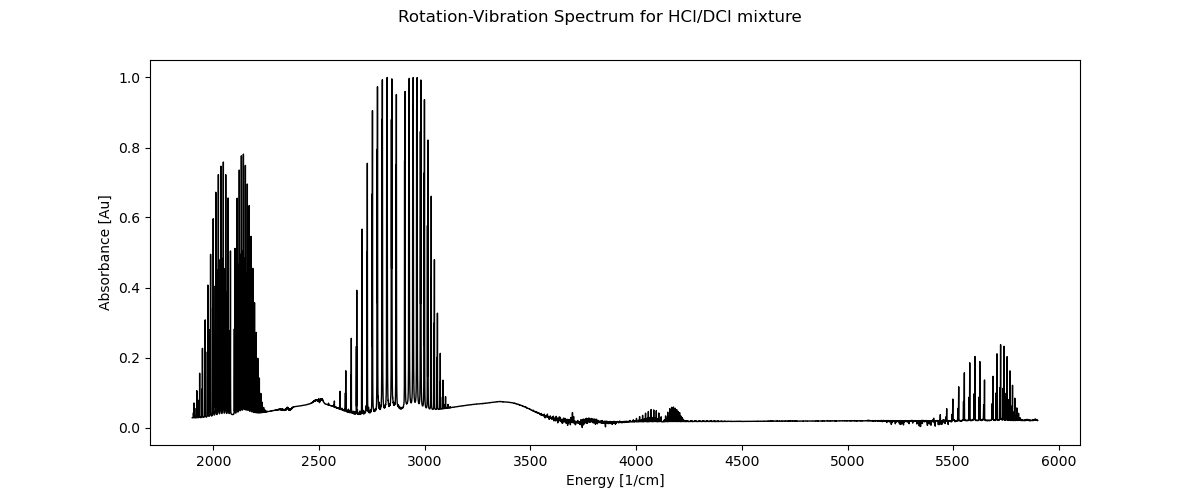
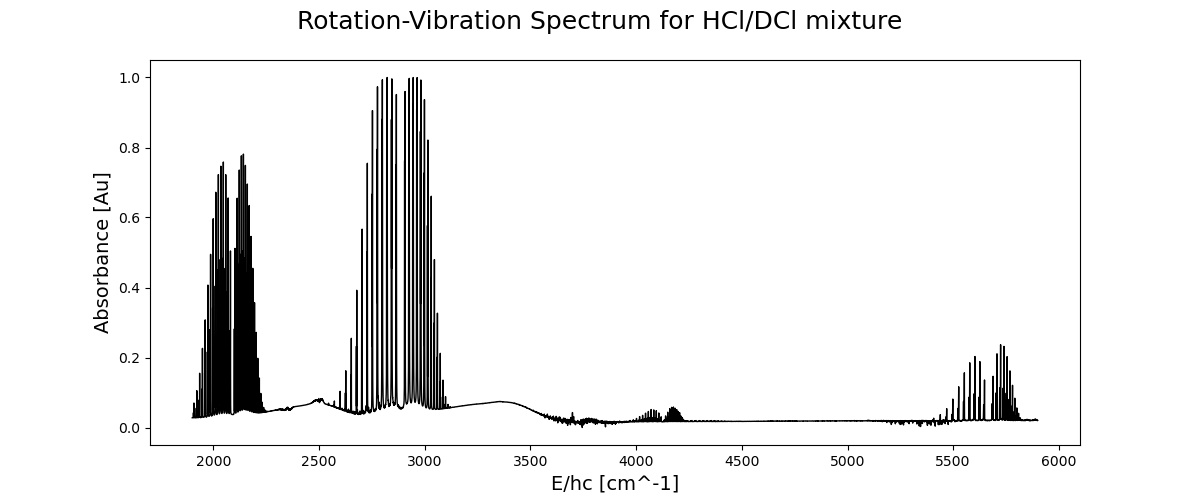
lab stuff

Changed region(s): [[0.2467, 0.0, 0.7708, 0.06], [0.0617, 0.33, 0.0925, 0.66], [0.4625, 0.93, 0.5858, 0.99]]

diff --git a/main.py b/main.py
@@ -28,16 +28,16 @@ fig, axs = plt.subplots(nrows=1, ncols=1, figsize=(12,5))
 # # Plotting the dataset for specT vs wavenumber
 # axs[0].plot(freq, specT, linestyle='solid',
 #          marker='None', color='black', linewidth=1)
-# axs[0].set_xlabel('Energy [1/cm]')
+# axs[0].set_xlabel('E/hc [cm^-1]', fontsize=14)
 # axs[0].set_ylabel('Transmission [%]')
 
 # Plotting the dataset for absorbance vs wavenumber
-axs.plot(freq, specA, linestyle='solid',
-         marker='None', color='black', linewidth=1)
-axs.set_xlabel('Energy [1/cm]')
-axs.set_ylabel('Absorbance [Au]')
-fig.suptitle('Rotation-Vibration Spectrum for HCl/DCl mixture')
-plt.show()
+# axs.plot(freq, specA, linestyle='solid',
+#          marker='None', color='black', linewidth=1)
+# axs.set_xlabel('E/hc [cm^-1]', fontsize=14)
+# axs.set_ylabel('Absorbance [Au]', fontsize=14)
+# fig.suptitle('Rotation-Vibration Spectrum for HCl/DCl mixture', fontsize=18)
+# plt.show()
 
 cDClfundp = (freq > 1900) & (freq < 2250)
 cDCloverp = (freq > 3950) & (freq < 4250)
@@ -65,34 +65,34 @@ bHCLf = analyse.getbase(HClfund.tolist(), 0.075)
 bHCLo = analyse.getbase(HClover.tolist(), 0.1)
 
 
-fig, axs = plt.subplots(nrows=2, ncols=2, figsize=(12,9))
-axs[0,0].plot(DClfundp[:,0], DClfundp[:,1], label = 'Signal')
-axs[0,0].plot(DClfund[:,0], bDCLf, label = 'Baseline')
-axs[0,0].set_title('DCl Fundamental')
-axs[0,0].set_xlabel('Energy [cm^-1]')
-axs[0,0].set_ylabel('Abs [Au]')
-axs[0,0].legend()
-axs[1,0].plot(DCloverp[:,0], DCloverp[:,1], label = 'Signal')
-axs[1,0].plot(DClover[:,0], bDCLo, label = 'Baseline')
-axs[1,0].set_title('DCl Overtone')
-axs[1,0].set_xlabel('Energy [cm^-1]')
-axs[1,0].set_ylabel('Abs [Au]')
-axs[1,0].legend()
-axs[0,1].plot(HClfundp[:,0], HClfundp[:,1], label = 'Signal')
-axs[0,1].plot(HClfund[:,0], bHCLf, label = 'Baseline')
-axs[0,1].set_title('HCl Fundamental')
-axs[0,1].set_xlabel('Energy [cm^-1]')
-axs[0,1].set_ylabel('Abs [Au]')
-axs[0,1].legend()
-axs[1,1].plot(HCloverp[:,0], HCloverp[:,1], label = 'Signal')
-axs[1,1].plot(HClover[:,0], bHCLo, label ='Vaseline')
-axs[1,1].set_title('HCl Overtone')
-axs[1,1].set_xlabel('Energy [cm^-1]')
-axs[1,1].set_ylabel('Abs [Au]')
-axs[1,1].legend()
-fig.suptitle('HCl and DCl Bands')
-plt.subplots_adjust(top=0.88, hspace=0.45, wspace=0.4)
-plt.show()
+# fig, axs = plt.subplots(nrows=2, ncols=2, figsize=(12,9))
+# axs[0,0].plot(DClfundp[:,0], DClfundp[:,1], label = 'Signal')
+# axs[0,0].plot(DClfund[:,0], bDCLf, label = 'Baseline')
+# axs[0,0].set_title('DCl Fundamental', fontsize=16)
+# axs[0,0].set_xlabel('E/hc [cm^-1]', fontsize=14)
+# axs[0,0].set_ylabel('Abs [Au]', fontsize=14)
+# axs[0,0].legend()
+# axs[1,0].plot(DCloverp[:,0], DCloverp[:,1], label = 'Signal')
+# axs[1,0].plot(DClover[:,0], bDCLo, label = 'Baseline')
+# axs[1,0].set_title('DCl Overtone', fontsize=16)
+# axs[1,0].set_xlabel('E/hc [cm^-1]', fontsize=14)
+# axs[1,0].set_ylabel('Abs [Au]', fontsize=14)
+# axs[1,0].legend()
+# axs[0,1].plot(HClfundp[:,0], HClfundp[:,1], label = 'Signal')
+# axs[0,1].plot(HClfund[:,0], bHCLf, label = 'Baseline')
+# axs[0,1].set_title('HCl Fundamental', fontsize=16)
+# axs[0,1].set_xlabel('E/hc [cm^-1]', fontsize=14)
+# axs[0,1].set_ylabel('Abs [Au]', fontsize=14)
+# axs[0,1].legend()
+# axs[1,1].plot(HCloverp[:,0], HCloverp[:,1], label = 'Signal')
+# axs[1,1].plot(HClover[:,0], bHCLo, label ='Baseline')
+# axs[1,1].set_title('HCl Overtone', fontsize=16)
+# axs[1,1].set_xlabel('E/hc [cm^-1]', fontsize=14)
+# axs[1,1].set_ylabel('Abs [Au]', fontsize=14)
+# axs[1,1].legend()
+# fig.suptitle('HCl and DCl Bands', fontsize=18)
+# plt.subplots_adjust(top=0.88, hspace=0.45, wspace=0.4)
+# plt.show()
 
 DClfund[:,1] = DClfund[:,1] -bDCLf
 DClover[:,1] = DClover[:,1] -bDCLo
@@ -144,46 +144,46 @@ h35or = h35o[h35o[:,0] > 5667, :]
 h37op = h37o[h37o[:,0] < 5667, :]
 h37or = h37o[h37o[:,0] > 5667, :]
 
-fig, axs = plt.subplots(nrows=2, ncols=2, figsize=(12,9))
-axs[0,0].plot(DClfund[:,0], DClfund[:,1], zorder = 1)
-axs[0,0].scatter(d35fp[:,0], d35fp[:,1], label = 'DCl(35) P', color = 'red', marker = 's')
-axs[0,0].scatter(d35fr[:,0], d35fr[:,1], label = 'DCl(35) R', color = 'orange', marker = 'o')
-axs[0,0].scatter(d37fp[:,0], d37fp[:,1], label = 'DCl(37) P', color = 'green', marker = '^')
-axs[0,0].scatter(d37fr[:,0], d37fr[:,1], label = 'DCl(37) R', color = 'purple', marker = '*')
-axs[0,0].set_title('DCl Fundamental')
-axs[0,0].set_xlabel('Energy [cm^-1]')
-axs[0,0].set_ylabel('Abs [Au]')
-axs[0,0].legend(loc = 'best')
-axs[1,0].plot(DClover[:,0], DClover[:,1], zorder = 1)
-axs[1,0].scatter(d35op[:,0], d35op[:,1], label = 'DCl(35) P', color = 'red', marker = 's')
-axs[1,0].scatter(d35or[:,0], d35or[:,1], label = 'DCl(35) R', color = 'orange', marker = 'o')
-axs[1,0].scatter(d37op[:,0], d37op[:,1], label = 'DCl(37) P', color = 'green', marker = '^')
-axs[1,0].scatter(d37or[:,0], d37or[:,1], label = 'DCl(37) R', color = 'purple', marker = '*')
-axs[1,0].set_title('DCl Overtone')
-axs[1,0].set_xlabel('Energy [cm^-1]')
-axs[1,0].set_ylabel('Abs [Au]')
-axs[1,0].legend(loc = 'best')
-axs[0,1].plot(HClfund[:,0], HClfund[:,1], zorder = 1)
-axs[0,1].scatter(h35fp[:,0], h35fp[:,1], label = 'HCl(35) P', color = 'red', marker = 's')
-axs[0,1].scatter(h35fr[:,0], h35fr[:,1], label = 'HCl(35) R', color = 'orange', marker = 'o')
-axs[0,1].scatter(h37fp[:,0], h37fp[:,1], label = 'HCl(37) P', color = 'green', marker = '^')
-axs[0,1].scatter(h37fr[:,0], h37fr[:,1], label = 'HCl(37) R', color = 'purple', marker = '*')
-axs[0,1].set_title('HCl Fundamental')
-axs[0,1].set_xlabel('Energy [cm^-1]')
-axs[0,1].set_ylabel('Abs [Au]')
-axs[0,1].legend(loc = 'best')
-axs[1,1].plot(HClover[:,0], HClover[:,1], zorder = 1)
-axs[1,1].scatter(h35op[:,0], h35op[:,1], label = 'HCl(35) P', color = 'red', marker = 's')
-axs[1,1].scatter(h35or[:,0], h35or[:,1], label = 'HCl(35) R', color = 'orange', marker = 'o')
-axs[1,1].scatter(h37op[:,0], h37op[:,1], label = 'HCl(37) P', color = 'green', marker = '^')
-axs[1,1].scatter(h37or[:,0], h37or[:,1], label = 'HCl(37) R', color = 'purple', marker = '*')
-axs[1,1].set_title('HCl Overtone')
-axs[1,1].set_xlabel('Energy [cm^-1]')
-axs[1,1].set_ylabel('Abs [Au]')
-axs[1,1].legend(loc = 'best')
-fig.suptitle('Corrected HCl and DCl Bands')
-plt.subplots_adjust(top=0.88, hspace=0.45, wspace=0.4)
-plt.show()
+# fig, axs = plt.subplots(nrows=2, ncols=2, figsize=(12,9))
+# axs[0,0].plot(DClfund[:,0], DClfund[:,1], zorder = 1)
+# axs[0,0].scatter(d35fp[:,0], d35fp[:,1], label = 'DCl(35) P', color = 'red', marker = 's')
+# axs[0,0].scatter(d35fr[:,0], d35fr[:,1], label = 'DCl(35) R', color = 'orange', marker = 'o')
+# axs[0,0].scatter(d37fp[:,0], d37fp[:,1], label = 'DCl(37) P', color = 'green', marker = '^')
+# axs[0,0].scatter(d37fr[:,0], d37fr[:,1], label = 'DCl(37) R', color = 'purple', marker = '*')
+# axs[0,0].set_title('DCl Fundamental', fontsize=16)
+# axs[0,0].set_xlabel('E/hc [cm^-1]', fontsize=14)
+# axs[0,0].set_ylabel('Abs [Au]', fontsize=14)
+# axs[0,0].legend(loc = 'best')
+# axs[1,0].plot(DClover[:,0], DClover[:,1], zorder = 1)
+# axs[1,0].scatter(d35op[:,0], d35op[:,1], label = 'DCl(35) P', color = 'red', marker = 's')
+# axs[1,0].scatter(d35or[:,0], d35or[:,1], label = 'DCl(35) R', color = 'orange', marker = 'o')
+# axs[1,0].scatter(d37op[:,0], d37op[:,1], label = 'DCl(37) P', color = 'green', marker = '^')
+# axs[1,0].scatter(d37or[:,0], d37or[:,1], label = 'DCl(37) R', color = 'purple', marker = '*')
+# axs[1,0].set_title('DCl Overtone', fontsize=16)
+# axs[1,0].set_xlabel('E/hc [cm^-1]', fontsize=14)
+# axs[1,0].set_ylabel('Abs [Au]', fontsize=14)
+# axs[1,0].legend(loc = 'best')
+# axs[0,1].plot(HClfund[:,0], HClfund[:,1], zorder = 1)
+# axs[0,1].scatter(h35fp[:,0], h35fp[:,1], label = 'HCl(35) P', color = 'red', marker = 's')
+# axs[0,1].scatter(h35fr[:,0], h35fr[:,1], label = 'HCl(35) R', color = 'orange', marker = 'o')
+# axs[0,1].scatter(h37fp[:,0], h37fp[:,1], label = 'HCl(37) P', color = 'green', marker = '^')
+# axs[0,1].scatter(h37fr[:,0], h37fr[:,1], label = 'HCl(37) R', color = 'purple', marker = '*')
+# axs[0,1].set_title('HCl Fundamental', fontsize=16)
+# axs[0,1].set_xlabel('E/hc [cm^-1]', fontsize=14)
+# axs[0,1].set_ylabel('Abs [Au]', fontsize=14)
+# axs[0,1].legend(loc = 'best')
+# axs[1,1].plot(HClover[:,0], HClover[:,1], zorder = 1)
+# axs[1,1].scatter(h35op[:,0], h35op[:,1], label = 'HCl(35) P', color = 'red', marker = 's')
+# axs[1,1].scatter(h35or[:,0], h35or[:,1], label = 'HCl(35) R', color = 'orange', marker = 'o')
+# axs[1,1].scatter(h37op[:,0], h37op[:,1], label = 'HCl(37) P', color = 'green', marker = '^')
+# axs[1,1].scatter(h37or[:,0], h37or[:,1], label = 'HCl(37) R', color = 'purple', marker = '*')
+# axs[1,1].set_title('HCl Overtone', fontsize=16)
+# axs[1,1].set_xlabel('E/hc [cm^-1]', fontsize=14)
+# axs[1,1].set_ylabel('Abs [Au]', fontsize=14)
+# axs[1,1].legend(loc = 'best')
+# fig.suptitle('Corrected HCl and DCl Bands', fontsize=18)
+# plt.subplots_adjust(top=0.88, hspace=0.45, wspace=0.4)
+# plt.show()
 
 def label(p, r):
     p = p[p[:,0].argsort()[::-1]]
@@ -198,71 +198,89 @@ def label(p, r):
 
 
 h35fl, h35fpoly, h35ferrs = label(h35fp, h35fr)
+print(h35fpoly)
+print(h35ferrs)
 h37fl, h37fpoly, h37ferrs = label(h37fp, h37fr)
+print(h37fpoly)
+print(h37ferrs)
 d35fl, d35fpoly, d35ferrs = label(d35fp, d35fr)
+print(d35fpoly)
+print(d35ferrs)
 d37fl, d37fpoly, d37ferrs = label(d37fp, d37fr)
+print(d37fpoly)
+print(d37ferrs)
 h35ol, h35opoly, h35oerrs = label(h35op, h35or)
+print(h35opoly)
+print(h35oerrs)
 h37ol, h37opoly, h37oerrs = label(h37op, h37or)
+print(h37opoly)
+print(h37oerrs)
 d35ol, d35opoly, d35oerrs = label(d35op, d35or)
+print(d35opoly)
+print(d35oerrs)
 d37ol, d37opoly, d37oerrs = label(d37op, d37or)
+print(d37opoly)
+print(d37oerrs)
 
 def geterr(errs, m):
     return np.sqrt(errs[0]**2 + m**2*errs[1]**2 + (m**4)*errs[2]**2)
 
-mval = np.linspace(-10,10,21)
-fig, axs = plt.subplots(nrows=2, ncols=2, figsize=(12, 9))
-axs[0,0].scatter(h35fl[:,2], h35fl[:,0], label = 'HCl(35) data', color='red', marker='o')
-axs[0,0].scatter(d35fl[:,2], d35fl[:,0], label = 'DCl(35) data', color='blue', marker='s')
-axs[0,0].plot(mval, np.polyval(h35fpoly, mval), label = 'HCl(35) fit', color='red')
-axs[0,0].plot(mval, np.polyval(d35fpoly, mval), label = 'DCl(35) fit', color='blue')
-axs[0,0].errorbar(mval, np.polyval(h35fpoly, mval), yerr=5*geterr(h35ferrs, mval), fmt='none', color='black',
-                  ecolor='gray', elinewidth=2, capsize=0, label= '10x error')
-axs[0,0].errorbar(mval, np.polyval(d35fpoly, mval), yerr=5*geterr(d35ferrs, mval), fmt='none', color='black',
-                  ecolor='gray', elinewidth=2, capsize=0, label= '10x error')
-axs[0,0].set_title('Cl(35) Fundamentals')
-axs[0,0].set_xlim([-10,10])
-axs[0,0].set_xlabel('m')
-axs[0,0].set_ylabel('Energy [cm^-1]')
-axs[0,0].legend(loc = 'best')
-axs[1,0].scatter(h37fl[:,2], h37fl[:,0], label = 'HCl(37) data', color='red', marker='o')
-axs[1,0].scatter(d37fl[:,2], d37fl[:,0], label = 'DCl(37) data', color='blue', marker='s')
-axs[1,0].plot(mval, np.polyval(h37fpoly, mval), label = 'HCl(37) fit', color='red')
-axs[1,0].plot(mval, np.polyval(d37fpoly, mval), label = 'DCl(37) fit', color='blue')
-axs[1,0].errorbar(mval, np.polyval(h35fpoly, mval), yerr=5*geterr(h37ferrs, mval), fmt='none', color='black',
-                  ecolor='gray', elinewidth=2, capsize=0, label= '10x error')
-axs[1,0].errorbar(mval, np.polyval(d35fpoly, mval), yerr=5*geterr(d37ferrs, mval), fmt='none', color='black',
-                  ecolor='gray', elinewidth=2, capsize=0, label= '10x error')
-axs[1,0].set_title('Cl(37) Fundamentals')
-axs[1,0].set_xlabel('m')
-axs[1,0].set_ylabel('Energy [cm^-1]')
-axs[1,0].legend(loc = 'best')
-axs[1,0].set_xlim([-10,10])
-axs[0,1].scatter(h35ol[:,2], h35ol[:,0], label = 'HCl(35) data', color='red', marker='o')
-axs[0,1].scatter(d35ol[:,2], d35ol[:,0], label = 'DCl(35) data', color='blue', marker='s')
-axs[0,1].plot(mval, np.polyval(h35opoly, mval), label = 'HCl(35) fit', color='red')
-axs[0,1].plot(mval, np.polyval(d35opoly, mval), label = 'DCl(35) fit', color='blue')
-axs[0,1].errorbar(mval, np.polyval(h35opoly, mval), yerr=5*geterr(h35oerrs, mval), fmt='none', color='black',
-                  ecolor='gray', elinewidth=2, capsize=0, label= '10x error')
-axs[0,1].errorbar(mval, np.polyval(d35opoly, mval), yerr=5*geterr(d35oerrs, mval), fmt='none', color='black',
-                  ecolor='gray', elinewidth=2, capsize=0, label= '10x error')
-axs[0,1].set_title('Cl(37) Overtones')
-axs[0,1].set_xlabel('m')
-axs[0,1].set_ylabel('Energy [cm^-1]')
-axs[0,1].legend(loc = 'best')
-axs[0,1].set_xlim([-10,10])
-axs[1,1].scatter(h37ol[:,2], h37ol[:,0], label = 'HCl(37) data', color='red', marker='o')
-axs[1,1].scatter(d37ol[:,2], d37ol[:,0], label = 'DCl(37) data', color='blue', marker='s')
-axs[1,1].plot(mval, np.polyval(h37opoly, mval), label = 'HCl(37) fit', color='red')
-axs[1,1].plot(mval, np.polyval(d37opoly, mval), label = 'DCl(37) fit', color='blue')
-axs[1,1].errorbar(mval, np.polyval(h37opoly, mval), yerr=5*geterr(h37oerrs, mval), fmt='none', color='black',
-                  ecolor='gray', elinewidth=2, capsize=0, label= '10x error')
-axs[1,1].errorbar(mval, np.polyval(d37opoly, mval), yerr=5*geterr(d37oerrs, mval), fmt='none', color='black',
-                  ecolor='gray', elinewidth=2, capsize=0, label= '10x error')
-axs[1,1].set_title('Cl(37) Overtones')
-axs[1,1].set_xlabel('m')
-axs[1,1].set_ylabel('Energy [cm^-1]')
-axs[1,1].legend(loc = 'best')
-axs[1,1].set_xlim([-10,10])
-fig.suptitle('Energy vs m')
-plt.subplots_adjust(top=0.88, hspace=0.45, wspace=0.4)
-plt.show()
+# mval = np.linspace(-10,10,21)
+# fig, axs = plt.subplots(nrows=2, ncols=2, figsize=(12, 9))
+# axs[0,0].scatter(h35fl[:,2], h35fl[:,0], label = 'HCl(35) data', color='red', marker='o')
+# axs[0,0].scatter(d35fl[:,2], d35fl[:,0], label = 'DCl(35) data', color='blue', marker='s')
+# axs[0,0].plot(mval, np.polyval(h35fpoly, mval), label = 'HCl(35) fit', color='red')
+# axs[0,0].plot(mval, np.polyval(d35fpoly, mval), label = 'DCl(35) fit', color='blue')
+# axs[0,0].errorbar(mval, np.polyval(h35fpoly, mval), yerr=5*geterr(h35ferrs, mval), fmt='none', color='black',
+#                   ecolor='gray', elinewidth=2, capsize=0, label= '10x error')
+# axs[0,0].errorbar(mval, np.polyval(d35fpoly, mval), yerr=5*geterr(d35ferrs, mval), fmt='none', color='black',
+#                   ecolor='gray', elinewidth=2, capsize=0, label= '10x error')
+# axs[0,0].set_title('Cl(35) Fundamentals', fontsize=16)
+# axs[0,0].set_xlim([-10,10])
+# axs[0,0].set_xlabel('m', fontsize=14)
+# axs[0,0].set_ylabel('E/hc [cm^-1]', fontsize=14)
+# axs[0,0].legend(loc = 'best')
+# axs[1,0].scatter(h37fl[:,2], h37fl[:,0], label = 'HCl(37) data', color='red', marker='o')
+# axs[1,0].scatter(d37fl[:,2], d37fl[:,0], label = 'DCl(37) data', color='blue', marker='s')
+# axs[1,0].plot(mval, np.polyval(h37fpoly, mval), label = 'HCl(37) fit', color='red')
+# axs[1,0].plot(mval, np.polyval(d37fpoly, mval), label = 'DCl(37) fit', color='blue')
+# axs[1,0].errorbar(mval, np.polyval(h35fpoly, mval), yerr=5*geterr(h37ferrs, mval), fmt='none', color='black',
+#                   ecolor='gray', elinewidth=2, capsize=0, label= '10x error')
+# axs[1,0].errorbar(mval, np.polyval(d35fpoly, mval), yerr=5*geterr(d37ferrs, mval), fmt='none', color='black',
+#                   ecolor='gray', elinewidth=2, capsize=0, label= '10x error')
+# axs[1,0].set_title('Cl(37) Fundamentals', fontsize=16)
+# axs[1,0].set_xlabel('m', fontsize=14)
+# axs[1,0].set_ylabel('E/hc [cm^-1]', fontsize=14)
+# axs[1,0].legend(loc = 'best')
+# axs[1,0].set_xlim([-10,10])
+# axs[0,1].scatter(h35ol[:,2], h35ol[:,0], label = 'HCl(35) data', color='red', marker='o')
+# axs[0,1].scatter(d35ol[:,2], d35ol[:,0], label = 'DCl(35) data', color='blue', marker='s')
+# axs[0,1].plot(mval, np.polyval(h35opoly, mval), label = 'HCl(35) fit', color='red')
+# axs[0,1].plot(mval, np.polyval(d35opoly, mval), label = 'DCl(35) fit', color='blue')
+# axs[0,1].errorbar(mval, np.polyval(h35opoly, mval), yerr=5*geterr(h35oerrs, mval), fmt='none', color='black',
+#                   ecolor='gray', elinewidth=2, capsize=0, label= '10x error')
+# axs[0,1].errorbar(mval, np.polyval(d35opoly, mval), yerr=5*geterr(d35oerrs, mval), fmt='none', color='black',
+#                   ecolor='gray', elinewidth=2, capsize=0, label= '10x error')
+# axs[0,1].set_title('Cl(37) Overtones', fontsize=16)
+# axs[0,1].set_xlabel('m', fontsize=14)
+# axs[0,1].set_ylabel('E/hc [cm^-1]', fontsize=14)
+# axs[0,1].legend(loc = 'best')
+# axs[0,1].set_xlim([-10,10])
+# axs[1,1].scatter(h37ol[:,2], h37ol[:,0], label = 'HCl(37) data', color='red', marker='o')
+# axs[1,1].scatter(d37ol[:,2], d37ol[:,0], label = 'DCl(37) data', color='blue', marker='s')
+# axs[1,1].plot(mval, np.polyval(h37opoly, mval), label = 'HCl(37) fit', color='red')
+# axs[1,1].plot(mval, np.polyval(d37opoly, mval), label = 'DCl(37) fit', color='blue')
+# axs[1,1].errorbar(mval, np.polyval(h37opoly, mval), yerr=5*geterr(h37oerrs, mval), fmt='none', color='black',
+#                   ecolor='gray', elinewidth=2, capsize=0, label= '10x error')
+# axs[1,1].errorbar(mval, np.polyval(d37opoly, mval), yerr=5*geterr(d37oerrs, mval), fmt='none', color='black',
+#                   ecolor='gray', elinewidth=2, capsize=0, label= '10x error')
+# axs[1,1].set_title('Cl(37) Overtones', fontsize=16)
+# axs[1,1].set_xlabel('m', fontsize=14)
+# axs[1,1].set_ylabel('E/hc [cm^-1]', fontsize=14)
+# axs[1,1].legend(loc = 'best')
+# axs[1,1].set_xlim([-10,10])
+# fig.suptitle('Energy vs m', fontsize=18)
+# plt.subplots_adjust(top=0.88, hspace=0.45, wspace=0.4)
+# plt.show()
+
+
